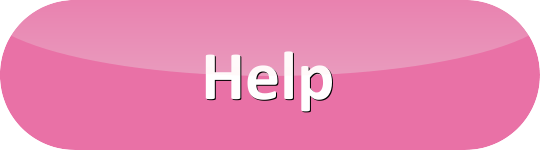
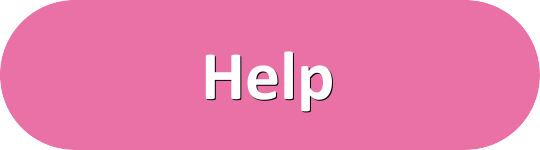
Potentially fixed main menu button problems

Changed region(s): [[0.0, 0.16, 0.9778, 0.5067]]

diff --git a/core/src/com/sugarbeats/view/MainMenuView.java b/core/src/com/sugarbeats/view/MainMenuView.java
@@ -1,6 +1,7 @@
 package com.sugarbeats.view;
 
 import com.badlogic.gdx.Gdx;
+import com.badlogic.gdx.graphics.OrthographicCamera;
 import com.badlogic.gdx.graphics.Texture;
 import com.badlogic.gdx.math.Rectangle;
 import com.badlogic.gdx.math.Vector3;
@@ -23,9 +24,10 @@ public class MainMenuView extends BaseView{
     Texture helpBtn;
     Vector3 touchPoint;
     MainMenuPresenter.ViewController controller;
+    OrthographicCamera cam;
 
-    private static final int WIDTH = SugarBeats.VIRTUAL_WIDTH;
-    private static final int HEIGHT = SugarBeats.VIRTUAL_HEIGHT;
+    private static final int WIDTH = SugarBeats.WIDTH;
+    private static final int HEIGHT = SugarBeats.HEIGHT;
     Integer height;
 
     public MainMenuView(SugarBeats game, MainMenuPresenter.ViewController controller) {
@@ -33,14 +35,16 @@ public class MainMenuView extends BaseView{
         this.game = game;
         this.controller = controller;
 
+        cam = new OrthographicCamera();
+        cam.setToOrtho(false, WIDTH, HEIGHT);
+
         playBtn = new Texture("button_play.png");
         settingBtn = new Texture("button_settings.png");
         helpBtn = new Texture("button_help.png");
-        playBounds = new Rectangle(WIDTH / 2 - playBtn.getWidth() / 2, HEIGHT - playBtn.getHeight() - HEIGHT / 2, playBtn.getWidth(), playBtn.getHeight());
-        settingBounds = new Rectangle(WIDTH / 2 + settingBtn.getWidth() / 2, HEIGHT - settingBtn.getHeight() - HEIGHT / 4, settingBtn.getWidth(), settingBtn.getHeight());
-        helpBounds = new Rectangle(WIDTH / 2 - helpBtn.getWidth() * 3 / 2, HEIGHT - helpBtn.getHeight() - HEIGHT / 4, helpBtn.getWidth(), helpBtn.getHeight());
+        playBounds = new Rectangle(WIDTH / 2 - playBtn.getWidth()/3 / 2, HEIGHT / 2, playBtn.getWidth() / 3, playBtn.getHeight() / 3);
+        settingBounds = new Rectangle(WIDTH / 2 + settingBtn.getWidth()/3 / 2, HEIGHT / 4, settingBtn.getWidth() / 3, settingBtn.getHeight() / 3);
+        helpBounds = new Rectangle(WIDTH / 2 - helpBtn.getWidth()/3 * 3 / 2, HEIGHT / 4, helpBtn.getWidth() / 3, helpBtn.getHeight() / 3);
         touchPoint = new Vector3();
-        System.out.println(playBtn.getWidth() + "" + playBtn.getHeight());
     }
 
     @Override
@@ -48,8 +52,8 @@ public class MainMenuView extends BaseView{
         if (Gdx.input.justTouched()) {
 
             // Set touch point to check for whether a menu button has been pressed
-            touchPoint.set(Gdx.input.getX(), Gdx.input.getY(), 0);
-
+            cam.unproject(touchPoint.set(Gdx.input.getX(), Gdx.input.getY(), 0));
+            System.out.println(touchPoint + ", y: " + (HEIGHT-touchPoint.y));
             if (playBounds.contains(touchPoint.x, touchPoint.y)) {
                 controller.onPlay();
                 return;
@@ -75,10 +79,12 @@ public class MainMenuView extends BaseView{
         // Draw menu buttons
         // TODO: Add title picture/text and background
         // TODO: Discuss about whether its necessary to constantly call the draw() function from render, is it enough to call it once during creation of class?
+        cam.update();
+        game.batch.setProjectionMatrix(cam.combined);
         game.batch.begin();
-        game.batch.draw(playBtn, WIDTH / 2 - playBtn.getWidth() / 2, HEIGHT / 2);
-        game.batch.draw(settingBtn, WIDTH / 2 + settingBtn.getWidth() / 2, HEIGHT / 4);
-        game.batch.draw(helpBtn, WIDTH / 2 - helpBtn.getWidth() * 3 / 2, HEIGHT / 4);
+        game.batch.draw(playBtn, WIDTH / 2 - playBtn.getWidth()/3 / 2, HEIGHT / 2, playBtn.getWidth() / 3, playBtn.getHeight() / 3);
+        game.batch.draw(settingBtn, WIDTH / 2 + settingBtn.getWidth()/3 / 2, HEIGHT / 4, settingBtn.getWidth() / 3, settingBtn.getHeight() / 3);
+        game.batch.draw(helpBtn, WIDTH / 2 - helpBtn.getWidth()/3 * 3 / 2, HEIGHT / 4, helpBtn.getWidth() / 3, helpBtn.getHeight() / 3);
         game.batch.end();
     }
 }
